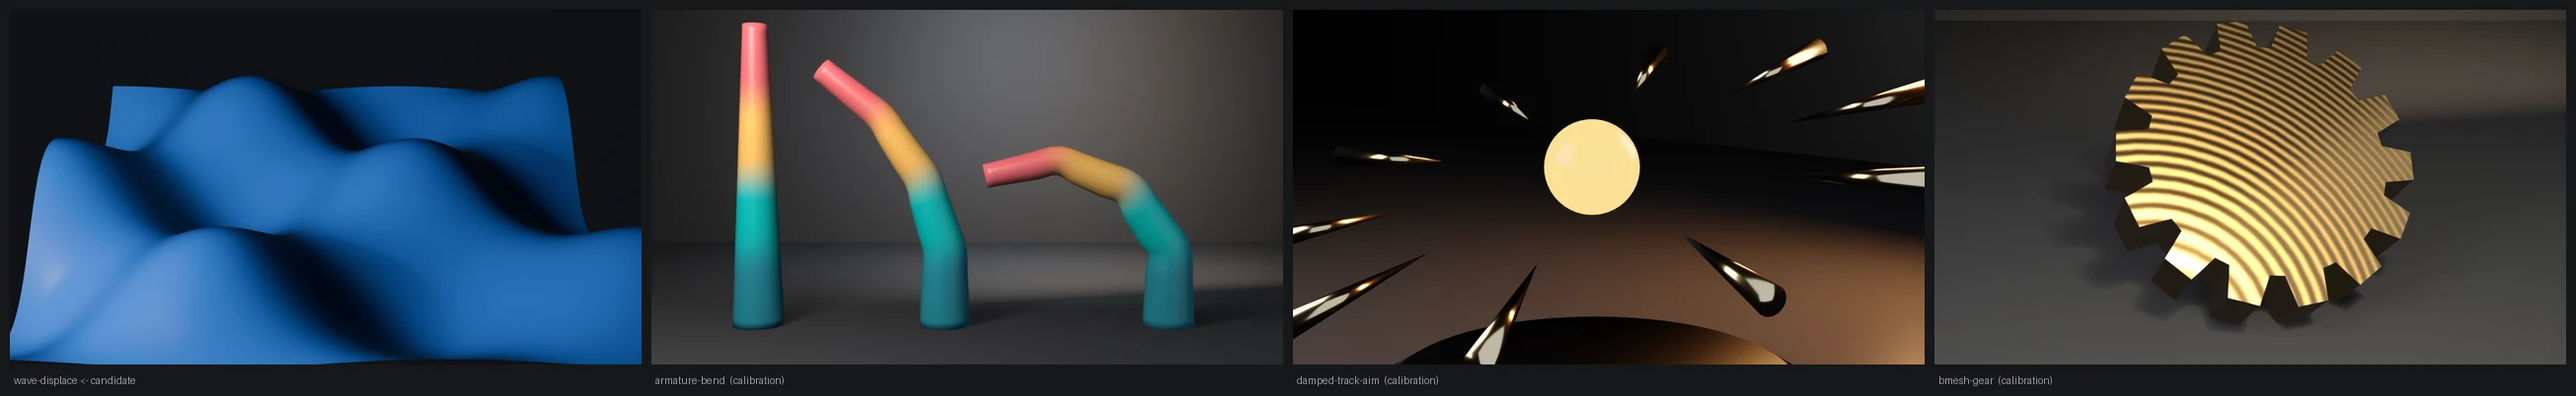
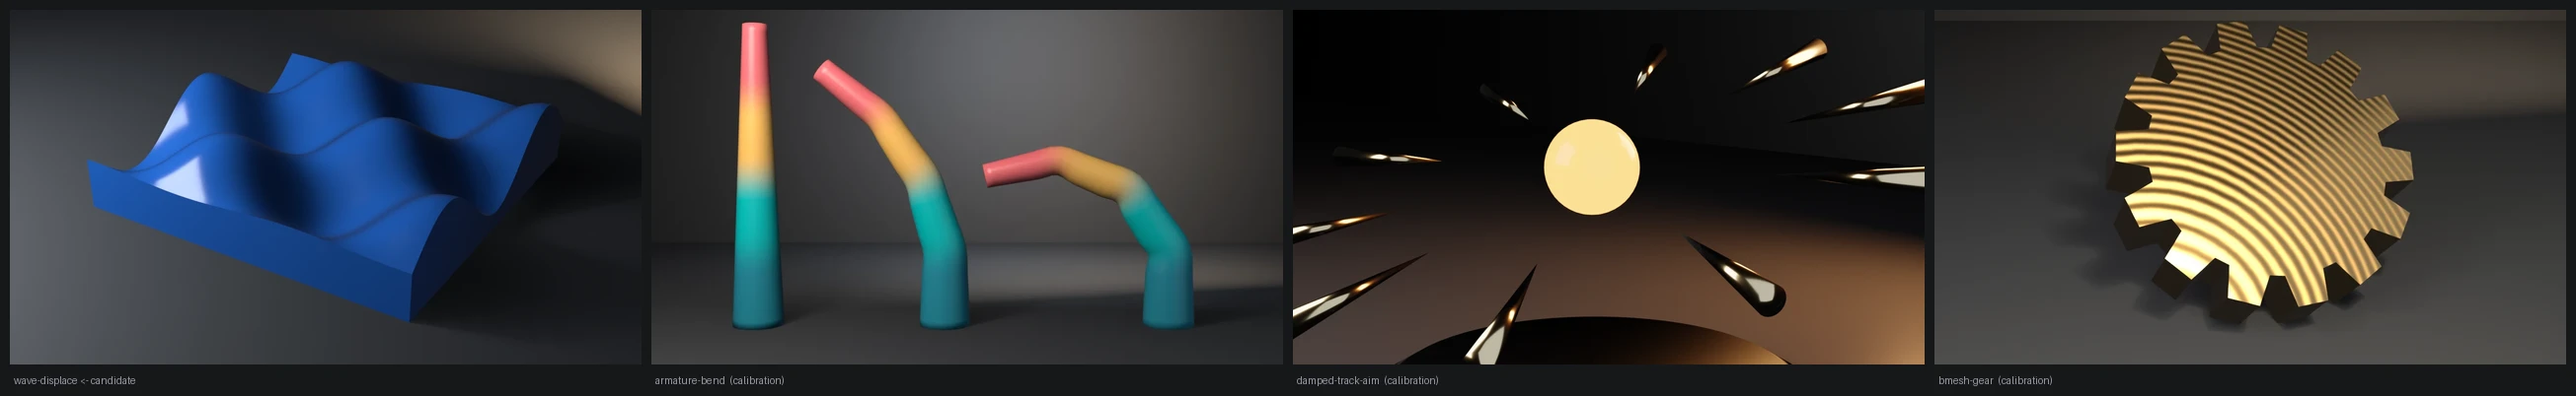
fix: wave-displace presentation, the wave as a tile on the studio floor
Render path only: a skirted copy of the checked grid stands on the floor
instead of bleeding off three frame edges. Contract and exit codes
unchanged on 4.5.11, 5.1.2 and 5.2.1.

Changed region(s): [[0.0, 0.0, 0.2483, 0.9254]]

diff --git a/docs/gallery/wave-displace/index.html b/docs/gallery/wave-displace/index.html
@@ -16,13 +16,13 @@
   <meta property="og:image" content="https://tmhsdigital.github.io/Blender-Developer-Tools/gallery/assets/wave-displace-hero.webp" />
   <meta property="og:image:width" content="1280" />
   <meta property="og:image:height" content="720" />
-  <meta property="og:image:alt" content="A blue grid surface displaced into rolling sine-wave hills." />
+  <meta property="og:image:alt" content="A blue tile whose top is a grid displaced into rolling sine-wave hills, standing on a dark studio floor." />
   <meta property="og:site_name" content="Blender Developer Tools" />
   <meta name="twitter:card" content="summary_large_image" />
   <meta name="twitter:title" content="wave-displace — Examples — Blender Developer Tools" />
   <meta name="twitter:description" content="Bulk vertex IO at real scale — 9,409 vertices displaced into a standing wave with one foreach_get and one foreach_set, no per-vertex access." />
   <meta name="twitter:image" content="https://tmhsdigital.github.io/Blender-Developer-Tools/gallery/assets/wave-displace-hero.webp" />
-  <meta name="twitter:image:alt" content="A blue grid surface displaced into rolling sine-wave hills." />
+  <meta name="twitter:image:alt" content="A blue tile whose top is a grid displaced into rolling sine-wave hills, standing on a dark studio floor." />
   <style>
     /* fonts are deployed by the landing build (docs/fonts/) */
     @font-face { font-family: 'Barlow Condensed'; font-weight: 600; font-display: swap;
@@ -268,8 +268,8 @@
     <p>Bulk vertex IO at real scale — 9,409 vertices displaced into a standing wave with one foreach_get and one foreach_set, no per-vertex access.</p>
   </header>
   <main id="main">
-    <button class="detail-hero" id="heroZoom" type="button" aria-label="View full size: A blue grid surface displaced into rolling sine-wave hills.">
-      <img src="../assets/wave-displace-hero.webp" alt="A blue grid surface displaced into rolling sine-wave hills." width="1280" height="720" />
+    <button class="detail-hero" id="heroZoom" type="button" aria-label="View full size: A blue tile whose top is a grid displaced into rolling sine-wave hills, standing on a dark studio floor.">
+      <img src="../assets/wave-displace-hero.webp" alt="A blue tile whose top is a grid displaced into rolling sine-wave hills, standing on a dark studio floor." width="1280" height="720" />
     </button>
     <p class="zoom-hint">Rendered headless by the example itself — click to zoom.</p>
     <div class="callout"><span class="tag">witnesses</span> The bulk path is correct, not just fast: the Z span matches the wave amplitude and every vertex matches the closed-form wave, so a stride bug in the flat buffer cannot hide.</div>
@@ -280,8 +280,9 @@
     <section class="detail-section md">
 <p>A runnable example that displaces a 96×96 grid (9,409 vertices) into a standing wave using <strong>one <code>foreach_get</code> and one <code>foreach_set</code></strong> — the bulk-IO pattern from <a href="https://github.com/TMHSDigital/Blender-Developer-Tools/tree/main/rules/use-foreach-set-for-bulk-data.mdc"><code>use-foreach-set-for-bulk-data</code></a> and the <a href="https://github.com/TMHSDigital/Blender-Developer-Tools/tree/main/skills/mesh-editing-and-bmesh/SKILL.md"><code>mesh-editing-and-bmesh</code></a> skill — instead of 9,409 individual <code>mesh.vertices[i].co</code> accesses.</p>
 <p><strong>What it witnesses:</strong> the bulk path is not just faster, it is <em>correct</em> — the check asserts the flat grid gained the expected Z span (the write actually landed) and that <strong>every</strong> vertex matches the closed-form wave, so a stride or interleave bug in the flat buffer cannot hide behind a lucky probe.</p>
-<h2>Framing deviation</h2>
-<p>Edge-to-edge field — the displaced sheet fills the frame and crops at the left, right, and bottom edges so the wave reads as a surface, not an object on a stage (measured fill 1.000x/0.817y with edge touch on three sides). If wired to <code>examples/gallery_framing.py</code>, call it with <code>deviation=&quot;edge-to-edge wave field; the fill is the point&quot;</code>.</p>
+<h2>Staging</h2>
+<p>The still used to be an edge-to-edge field: the sheet cropped at the left, right and bottom edges on a black void, so nothing showed where the surface ended or what it stood on. <code>gallery_framing</code> has no <code>deviation=</code> flag any more, so that framing could not be gated at all.</p>
+<p>The render path now stages a <strong>copy</strong> of the checked grid. Its boundary is extruded straight down to a flat base 0.30 m below the deepest trough, so the wave is the top face of a cast tile standing on the studio floor, framed whole. The checked <code>Wave</code> object is left exactly as asserted and hidden from the render. The copy is render-only and never enters <code>check()</code>. Measured framing on 5.2.1: fill 0.753 x / 0.761 y, every margin ≥ 0.117.</p>
 <h2>Run</h2>
 <pre><code># Cheap correctness check (no render) — the CI check:
 blender --background --python wave_displace.py --
@@ -391,31 +392,87 @@ FREQ = <span class="n">1.6</span>
     bsdf.inputs[<span class="s">&quot;Roughness&quot;</span>].default_value = <span class="n">0.18</span>
     obj.data.materials.append(mat)
 
+    <span class="c"># render-only staging: the displaced grid is the contract and stays as</span>
+    <span class="c"># checked. A copy of it gets a skirt, its boundary extruded straight</span>
+    <span class="c"># down to a flat base, so the wave reads as the top of a cast tile</span>
+    <span class="c"># standing on the studio floor instead of a sheet bleeding off the frame.</span>
+    base = <span class="n">0.30</span>  <span class="c"># base sits this far below the deepest trough</span>
+    tile_me = obj.data.copy()
+    bm = bmesh.new()
+    <span class="k">try</span>:
+        bm.from_mesh(tile_me)
+        rim = [e <span class="k">for</span> e <span class="k">in</span> bm.edges <span class="k">if</span> e.is_boundary]
+        ret = bmesh.ops.extrude_edge_only(bm, edges=rim)
+        skirt = [g <span class="k">for</span> g <span class="k">in</span> ret[<span class="s">&quot;geom&quot;</span>] <span class="k">if</span> isinstance(g, bmesh.types.BMFace)]
+        <span class="k">for</span> g <span class="k">in</span> ret[<span class="s">&quot;geom&quot;</span>]:
+            <span class="k">if</span> isinstance(g, bmesh.types.BMVert):
+                g.co.z = -AMP - base
+        bottom = [g <span class="k">for</span> g <span class="k">in</span> ret[<span class="s">&quot;geom&quot;</span>] <span class="k">if</span> isinstance(g, bmesh.types.BMEdge) <span class="k">and</span> g.is_boundary]
+        bmesh.ops.holes_fill(bm, edges=bottom, sides=<span class="n">0</span>)
+        bmesh.ops.recalc_face_normals(bm, faces=bm.faces)
+        <span class="k">for</span> f <span class="k">in</span> skirt:
+            f.smooth = <span class="k">False</span>
+        bm.to_mesh(tile_me)
+    <span class="k">finally</span>:
+        bm.free()
+    tile = bpy.data.objects.new(<span class="s">&quot;WaveTile&quot;</span>, tile_me)
+    tile.location.z = AMP + base
+    scene.collection.objects.link(tile)
+    obj.hide_render = <span class="k">True</span>
+
+    floor_me = bpy.data.meshes.new(<span class="s">&quot;Floor&quot;</span>)
+    bm = bmesh.new()
+    <span class="k">try</span>:
+        bmesh.ops.create_grid(bm, x_segments=<span class="n">1</span>, y_segments=<span class="n">1</span>, size=<span class="n">60.0</span>)
+        bm.to_mesh(floor_me)
+    <span class="k">finally</span>:
+        bm.free()
+    fmat = bpy.data.materials.new(<span class="s">&quot;Studio&quot;</span>)
+    fmat.use_nodes = <span class="k">True</span>
+    fb = fmat.node_tree.nodes[<span class="s">&quot;Principled BSDF&quot;</span>]
+    fb.inputs[<span class="s">&quot;Base Color&quot;</span>].default_value = (<span class="n">0.03</span>, <span class="n">0.032</span>, <span class="n">0.037</span>, <span class="n">1.0</span>)
+    fb.inputs[<span class="s">&quot;Roughness&quot;</span>].default_value = <span class="n">0.7</span>
+    floor_me.materials.append(fmat)
+    floor = bpy.data.objects.new(<span class="s">&quot;Floor&quot;</span>, floor_me)
+    scene.collection.objects.link(floor)
+    wall = bpy.data.objects.new(<span class="s">&quot;Wall&quot;</span>, floor_me.copy())
+    wall.location = (<span class="n">0.0</span>, <span class="n">14.0</span>, <span class="n">0.0</span>)
+    wall.rotation_euler = (math.radians(<span class="n">90</span>), <span class="n">0.0</span>, <span class="n">0.0</span>)
+    scene.collection.objects.link(wall)
+
     world = bpy.data.worlds.new(<span class="s">&quot;World&quot;</span>)
     world.use_nodes = <span class="k">True</span>
-    world.node_tree.nodes[<span class="s">&quot;Background&quot;</span>].inputs[<span class="s">&quot;Color&quot;</span>].default_value = (<span class="n">0.008</span>, <span class="n">0.009</span>, <span class="n">0.012</span>, <span class="n">1.0</span>)
+    world.node_tree.nodes[<span class="s">&quot;Background&quot;</span>].inputs[<span class="s">&quot;Color&quot;</span>].default_value = (<span class="n">0.02</span>, <span class="n">0.021</span>, <span class="n">0.025</span>, <span class="n">1.0</span>)
     scene.world = world
 
-    <span class="c"># grazing cool key picks out the crests; warm rim from behind</span>
-    key = bpy.data.lights.new(<span class="s">&quot;Key&quot;</span>, <span class="s">&#x27;AREA&#x27;</span>); key.energy = <span class="n">2000.0</span>; key.size = <span class="n">6.0</span>
-    key.color = (<span class="n">0.9</span>, <span class="n">0.95</span>, <span class="n">1.0</span>)
-    key_ob = bpy.data.objects.new(<span class="s">&quot;Key&quot;</span>, key)
-    key_ob.location = (-<span class="n">6.5</span>, -<span class="n">5.0</span>, <span class="n">3.2</span>)
-    key_ob.rotation_euler = (math.radians(<span class="n">65</span>), <span class="n">0.0</span>, math.radians(-<span class="n">50</span>))
-    scene.collection.objects.link(key_ob)
-    rim = bpy.data.lights.new(<span class="s">&quot;Rim&quot;</span>, <span class="s">&#x27;AREA&#x27;</span>); rim.energy = <span class="n">1300.0</span>; rim.size = <span class="n">4.0</span>
-    rim.color = (<span class="n">1.0</span>, <span class="n">0.68</span>, <span class="n">0.38</span>)
-    rim_ob = bpy.data.objects.new(<span class="s">&quot;Rim&quot;</span>, rim)
-    rim_ob.location = (<span class="n">4.5</span>, <span class="n">6.5</span>, <span class="n">2.6</span>)
-    rim_ob.rotation_euler = (math.radians(-<span class="n">68</span>), <span class="n">0.0</span>, math.radians(<span class="n">148</span>))
-    scene.collection.objects.link(rim_ob)
+    <span class="k">def</span> light(name, loc, energy, size, col, rot):
+        ld = bpy.data.lights.new(name, <span class="s">&#x27;AREA&#x27;</span>)
+        ld.energy = energy; ld.size = size; ld.color = col
+        ob = bpy.data.objects.new(name, ld)
+        ob.location = loc
+        ob.rotation_euler = tuple(math.radians(a) <span class="k">for</span> a <span class="k">in</span> rot)
+        scene.collection.objects.link(ob)
 
+    <span class="c"># grazing cool key picks out the crests; warm rim from behind; a warm</span>
+    <span class="c"># wedge rakes the back wall like the rest of the gallery stages</span>
+    light(<span class="s">&quot;Key&quot;</span>, (-<span class="n">8.0</span>, -<span class="n">7.0</span>, <span class="n">6.5</span>), <span class="n">2400.0</span>, <span class="n">7.0</span>, (<span class="n">0.9</span>, <span class="n">0.95</span>, <span class="n">1.0</span>), (<span class="n">55</span>, <span class="n">0</span>, -<span class="n">48</span>))
+    light(<span class="s">&quot;Fill&quot;</span>, (<span class="n">9.0</span>, -<span class="n">6.0</span>, <span class="n">3.0</span>), <span class="n">120.0</span>, <span class="n">10.0</span>, (<span class="n">0.78</span>, <span class="n">0.86</span>, <span class="n">1.0</span>), (<span class="n">70</span>, <span class="n">0</span>, <span class="n">55</span>))
+    light(<span class="s">&quot;Rim&quot;</span>, (<span class="n">5.0</span>, <span class="n">7.5</span>, <span class="n">4.0</span>), <span class="n">1800.0</span>, <span class="n">5.0</span>, (<span class="n">1.0</span>, <span class="n">0.68</span>, <span class="n">0.38</span>), (-<span class="n">62</span>, <span class="n">0</span>, <span class="n">148</span>))
+    light(<span class="s">&quot;Wedge&quot;</span>, (<span class="n">4.0</span>, <span class="n">10.5</span>, <span class="n">7.0</span>), <span class="n">1500.0</span>, <span class="n">9.0</span>, (<span class="n">1.0</span>, <span class="n">0.76</span>, <span class="n">0.5</span>), (-<span class="n">65</span>, <span class="n">0</span>, <span class="n">190</span>))
+
+    aim = bpy.data.objects.new(<span class="s">&quot;Aim&quot;</span>, <span class="k">None</span>)
+    aim.location = (<span class="n">0.0</span>, -<span class="n">0.4</span>, <span class="n">0.05</span>)
+    scene.collection.objects.link(aim)
     cam_data = bpy.data.cameras.new(<span class="s">&quot;Cam&quot;</span>); cam_data.lens = <span class="n">50.0</span>
     cam = bpy.data.objects.new(<span class="s">&quot;Cam&quot;</span>, cam_data)
-    cam.location = (<span class="n">0.0</span>, -<span class="n">8.6</span>, <span class="n">4.6</span>)
-    cam.rotation_euler = (math.radians(<span class="n">62</span>), <span class="n">0.0</span>, <span class="n">0.0</span>)
+    cam.location = (<span class="n">7.2</span>, -<span class="n">11.8</span>, <span class="n">7.4</span>)
+    con = cam.constraints.new(<span class="s">&#x27;TRACK_TO&#x27;</span>)
+    con.target = aim
+    con.track_axis = <span class="s">&#x27;TRACK_NEGATIVE_Z&#x27;</span>
+    con.up_axis = <span class="s">&#x27;UP_Y&#x27;</span>
     scene.collection.objects.link(cam)
     scene.camera = cam
+    scene.view_settings.view_transform = <span class="s">&#x27;Standard&#x27;</span>
 
     scene.render.engine = <span class="s">&#x27;CYCLES&#x27;</span> <span class="k">if</span> engine == <span class="s">&#x27;cycles&#x27;</span> <span class="k">else</span> eevee_engine_id()
     <span class="k">if</span> engine == <span class="s">&#x27;cycles&#x27;</span>:
@@ -469,7 +526,7 @@ FREQ = <span class="n">1.6</span>
   </main>
   <dialog class="lightbox" id="lightbox" aria-label="Full-size render">
     <button class="lightbox-close" type="button" autofocus>Close</button>
-    <img src="../assets/wave-displace-hero.webp" alt="A blue grid surface displaced into rolling sine-wave hills." />
+    <img src="../assets/wave-displace-hero.webp" alt="A blue tile whose top is a grid displaced into rolling sine-wave hills, standing on a dark studio floor." />
   </dialog>
   <footer>
     <div class="statusbar">

diff --git a/examples/wave-displace/wave_displace.py b/examples/wave-displace/wave_displace.py
@@ -86,31 +86,87 @@ def render_still(obj, path, engine):
     bsdf.inputs["Roughness"].default_value = 0.18
     obj.data.materials.append(mat)
 
+    # render-only staging: the displaced grid is the contract and stays as
+    # checked. A copy of it gets a skirt, its boundary extruded straight
+    # down to a flat base, so the wave reads as the top of a cast tile
+    # standing on the studio floor instead of a sheet bleeding off the frame.
+    base = 0.30  # base sits this far below the deepest trough
+    tile_me = obj.data.copy()
+    bm = bmesh.new()
+    try:
+        bm.from_mesh(tile_me)
+        rim = [e for e in bm.edges if e.is_boundary]
+        ret = bmesh.ops.extrude_edge_only(bm, edges=rim)
+        skirt = [g for g in ret["geom"] if isinstance(g, bmesh.types.BMFace)]
+        for g in ret["geom"]:
+            if isinstance(g, bmesh.types.BMVert):
+                g.co.z = -AMP - base
+        bottom = [g for g in ret["geom"] if isinstance(g, bmesh.types.BMEdge) and g.is_boundary]
+        bmesh.ops.holes_fill(bm, edges=bottom, sides=0)
+        bmesh.ops.recalc_face_normals(bm, faces=bm.faces)
+        for f in skirt:
+            f.smooth = False
+        bm.to_mesh(tile_me)
+    finally:
+        bm.free()
+    tile = bpy.data.objects.new("WaveTile", tile_me)
+    tile.location.z = AMP + base
+    scene.collection.objects.link(tile)
+    obj.hide_render = True
+
+    floor_me = bpy.data.meshes.new("Floor")
+    bm = bmesh.new()
+    try:
+        bmesh.ops.create_grid(bm, x_segments=1, y_segments=1, size=60.0)
+        bm.to_mesh(floor_me)
+    finally:
+        bm.free()
+    fmat = bpy.data.materials.new("Studio")
+    fmat.use_nodes = True
+    fb = fmat.node_tree.nodes["Principled BSDF"]
+    fb.inputs["Base Color"].default_value = (0.03, 0.032, 0.037, 1.0)
+    fb.inputs["Roughness"].default_value = 0.7
+    floor_me.materials.append(fmat)
+    floor = bpy.data.objects.new("Floor", floor_me)
+    scene.collection.objects.link(floor)
+    wall = bpy.data.objects.new("Wall", floor_me.copy())
+    wall.location = (0.0, 14.0, 0.0)
+    wall.rotation_euler = (math.radians(90), 0.0, 0.0)
+    scene.collection.objects.link(wall)
+
     world = bpy.data.worlds.new("World")
     world.use_nodes = True
-    world.node_tree.nodes["Background"].inputs["Color"].default_value = (0.008, 0.009, 0.012, 1.0)
+    world.node_tree.nodes["Background"].inputs["Color"].default_value = (0.02, 0.021, 0.025, 1.0)
     scene.world = world
 
-    # grazing cool key picks out the crests; warm rim from behind
-    key = bpy.data.lights.new("Key", 'AREA'); key.energy = 2000.0; key.size = 6.0
-    key.color = (0.9, 0.95, 1.0)
-    key_ob = bpy.data.objects.new("Key", key)
-    key_ob.location = (-6.5, -5.0, 3.2)
-    key_ob.rotation_euler = (math.radians(65), 0.0, math.radians(-50))
-    scene.collection.objects.link(key_ob)
-    rim = bpy.data.lights.new("Rim", 'AREA'); rim.energy = 1300.0; rim.size = 4.0
-    rim.color = (1.0, 0.68, 0.38)
-    rim_ob = bpy.data.objects.new("Rim", rim)
-    rim_ob.location = (4.5, 6.5, 2.6)
-    rim_ob.rotation_euler = (math.radians(-68), 0.0, math.radians(148))
-    scene.collection.objects.link(rim_ob)
+    def light(name, loc, energy, size, col, rot):
+        ld = bpy.data.lights.new(name, 'AREA')
+        ld.energy = energy; ld.size = size; ld.color = col
+        ob = bpy.data.objects.new(name, ld)
+        ob.location = loc
+        ob.rotation_euler = tuple(math.radians(a) for a in rot)
+        scene.collection.objects.link(ob)
 
+    # grazing cool key picks out the crests; warm rim from behind; a warm
+    # wedge rakes the back wall like the rest of the gallery stages
+    light("Key", (-8.0, -7.0, 6.5), 2400.0, 7.0, (0.9, 0.95, 1.0), (55, 0, -48))
+    light("Fill", (9.0, -6.0, 3.0), 120.0, 10.0, (0.78, 0.86, 1.0), (70, 0, 55))
+    light("Rim", (5.0, 7.5, 4.0), 1800.0, 5.0, (1.0, 0.68, 0.38), (-62, 0, 148))
+    light("Wedge", (4.0, 10.5, 7.0), 1500.0, 9.0, (1.0, 0.76, 0.5), (-65, 0, 190))
+
+    aim = bpy.data.objects.new("Aim", None)
+    aim.location = (0.0, -0.4, 0.05)
+    scene.collection.objects.link(aim)
     cam_data = bpy.data.cameras.new("Cam"); cam_data.lens = 50.0
     cam = bpy.data.objects.new("Cam", cam_data)
-    cam.location = (0.0, -8.6, 4.6)
-    cam.rotation_euler = (math.radians(62), 0.0, 0.0)
+    cam.location = (7.2, -11.8, 7.4)
+    con = cam.constraints.new('TRACK_TO')
+    con.target = aim
+    con.track_axis = 'TRACK_NEGATIVE_Z'
+    con.up_axis = 'UP_Y'
     scene.collection.objects.link(cam)
     scene.camera = cam
+    scene.view_settings.view_transform = 'Standard'
 
     scene.render.engine = 'CYCLES' if engine == 'cycles' else eevee_engine_id()
     if engine == 'cycles':

diff --git a/examples/wave-displace/README.md b/examples/wave-displace/README.md
@@ -11,13 +11,19 @@ the flat grid gained the expected Z span (the write actually landed) and that **
 vertex matches the closed-form wave, so a stride or interleave bug in the flat buffer
 cannot hide behind a lucky probe.
 
-## Framing deviation
+## Staging
 
-Edge-to-edge field — the displaced sheet fills the frame and crops at the left,
-right, and bottom edges so the wave reads as a surface, not an object on a
-stage (measured fill 1.000x/0.817y with edge touch on three sides). If wired
-to `examples/gallery_framing.py`, call it with
-`deviation="edge-to-edge wave field; the fill is the point"`.
+The still used to be an edge-to-edge field: the sheet cropped at the left,
+right and bottom edges on a black void, so nothing showed where the surface
+ended or what it stood on. `gallery_framing` has no `deviation=` flag any more,
+so that framing could not be gated at all.
+
+The render path now stages a **copy** of the checked grid. Its boundary is
+extruded straight down to a flat base 0.30 m below the deepest trough, so the
+wave is the top face of a cast tile standing on the studio floor, framed whole.
+The checked `Wave` object is left exactly as asserted and hidden from the
+render. The copy is render-only and never enters `check()`. Measured framing on
+5.2.1: fill 0.753 x / 0.761 y, every margin ≥ 0.117.
 
 ## Run
 

diff --git a/README.md b/README.md
@@ -361,7 +361,7 @@ then re-reads its own render and fails unless the pixels prove the flat-vs-check
 </tr>
 <tr>
 <td width="46%" valign="middle">
-<a href="examples/wave-displace/"><img src="examples/wave-displace/preview.webp" alt="Wave displace: a glossy sapphire-blue surface displaced into smooth standing-wave dunes against a black backdrop" /></a>
+<a href="examples/wave-displace/"><img src="examples/wave-displace/preview.webp" alt="Wave displace: a sapphire-blue tile whose top is displaced into smooth standing-wave dunes, standing on a dark studio floor" /></a>
 </td>
 <td valign="middle">
 
